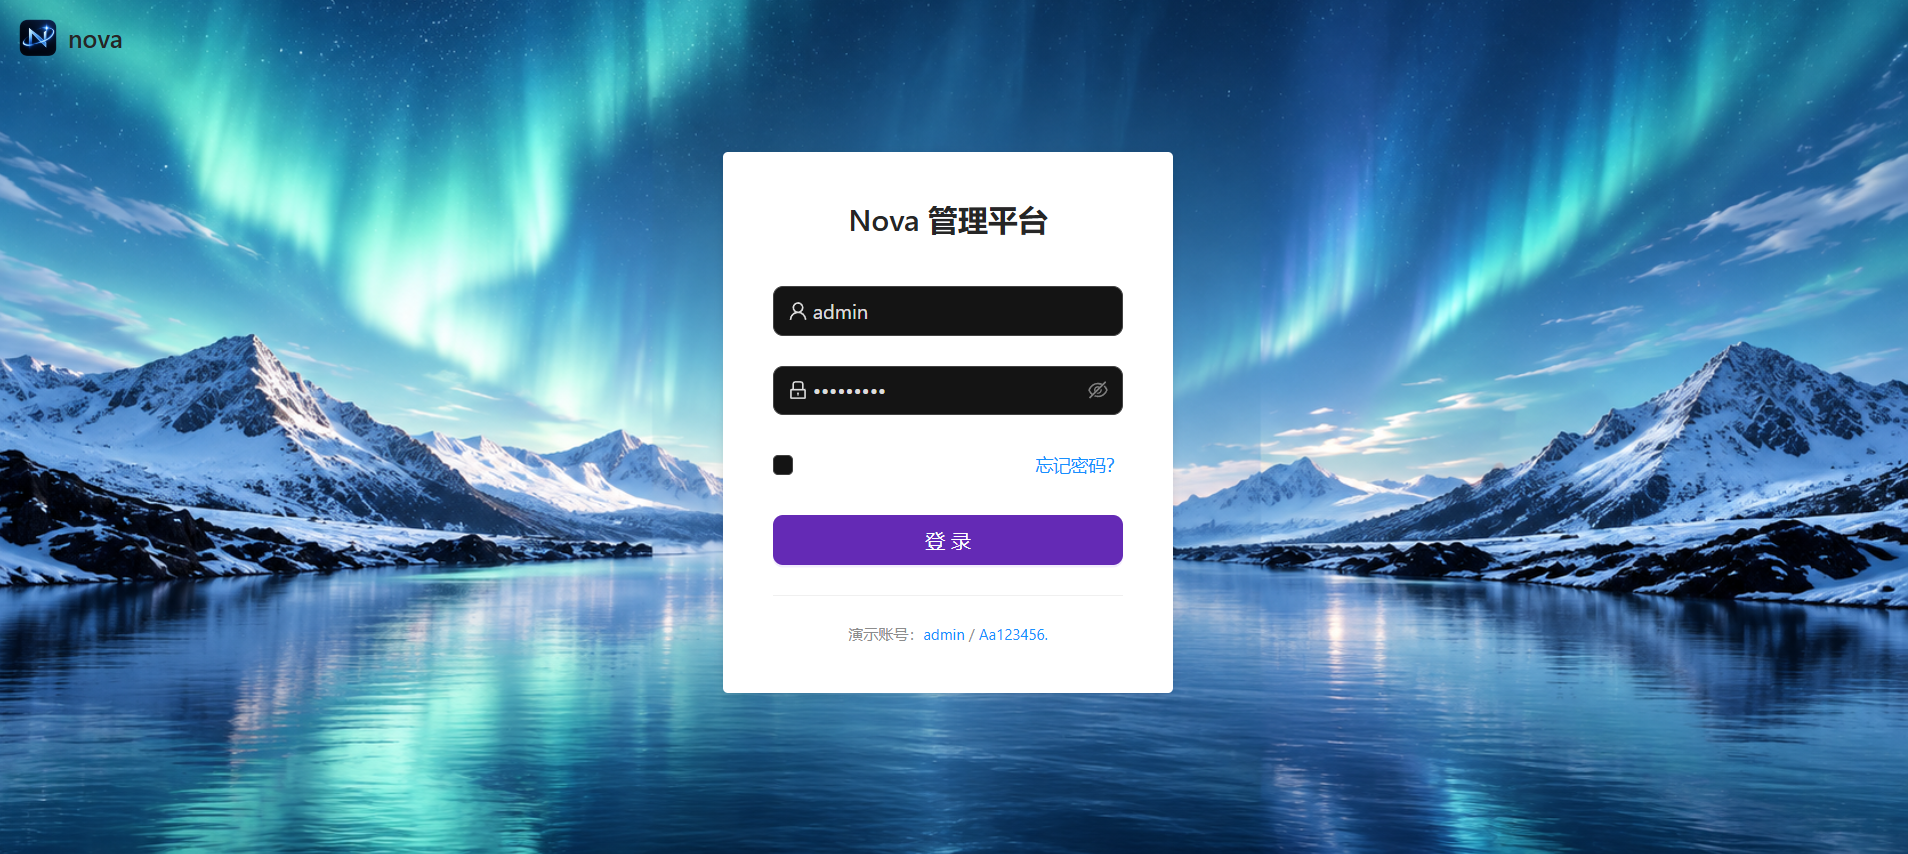
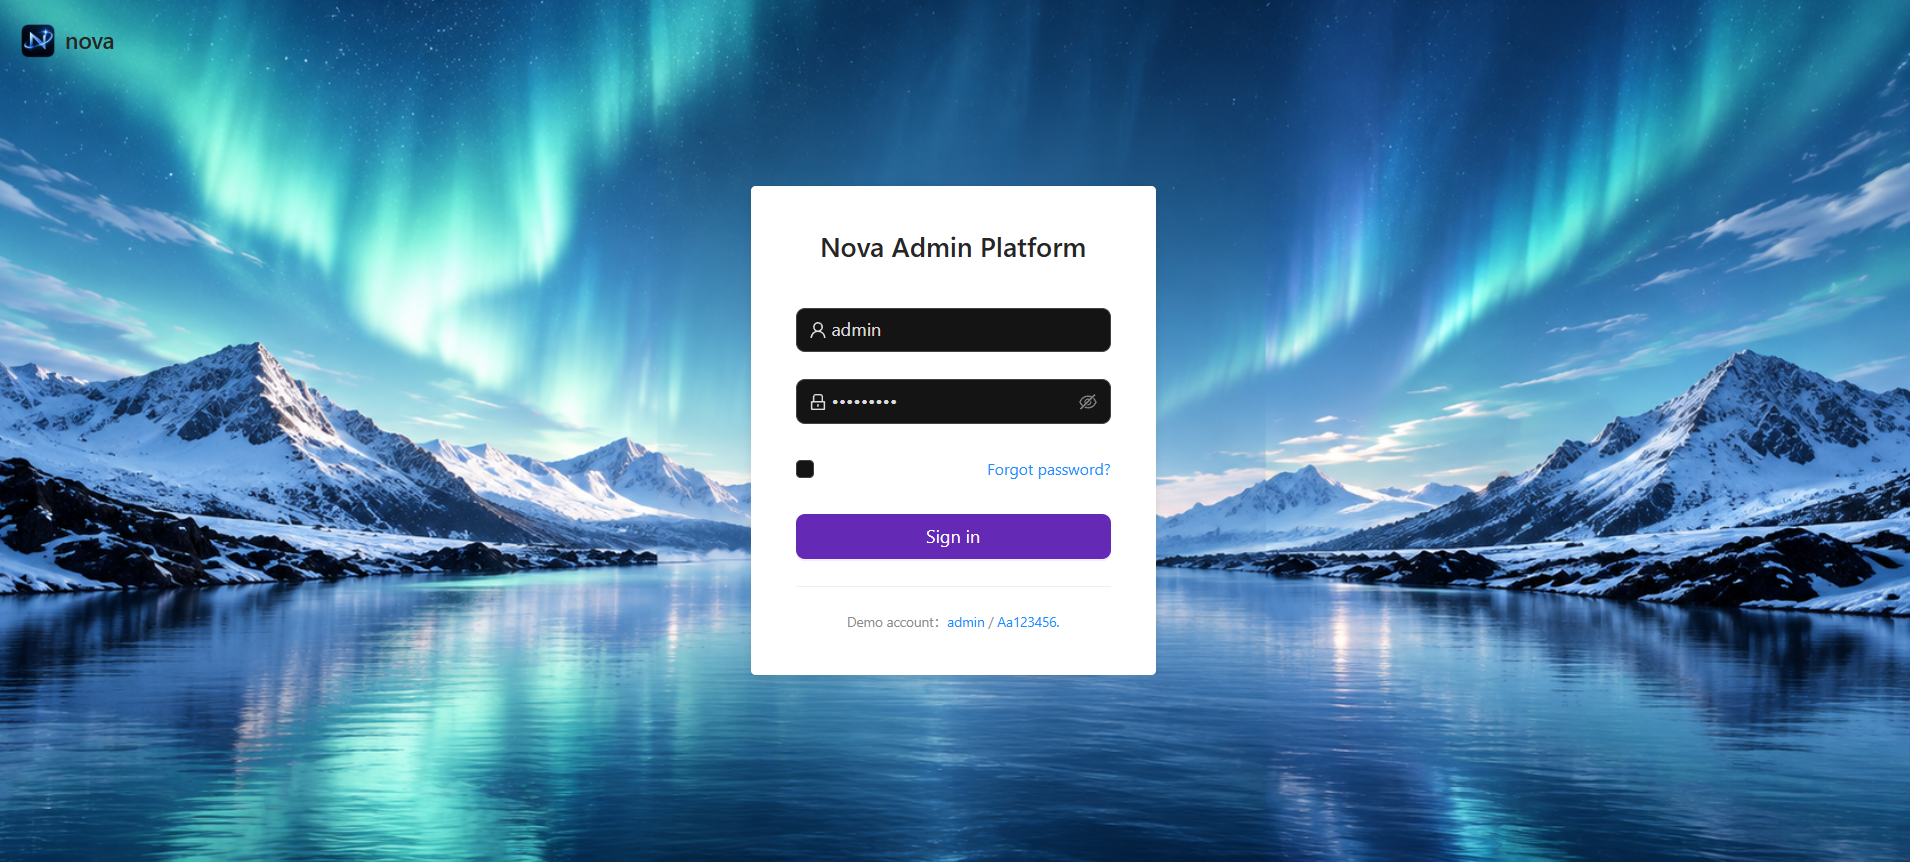
多语言

diff --git a/src/styles/index.scss b/src/styles/index.scss
@@ -223,6 +223,16 @@ body {
               background: rgba(0, 0, 0, 0.04) !important;
             }
           }
+
+          .sider-action,
+          .sider-user {
+            color: rgba(0, 0, 0, 0.65) !important;
+
+            &:hover {
+              color: rgba(0, 0, 0, 0.85) !important;
+              background: rgba(0, 0, 0, 0.04) !important;
+            }
+          }
         }
 
         // Ant Menu 亮色：背景/hover/选中样式
@@ -286,6 +296,16 @@ body {
         .sider-footer {
           background: #001529 !important;
           border-top: 1px solid rgba(255, 255, 255, 0.1) !important;
+
+          .sider-action,
+          .sider-user {
+            color: rgba(255, 255, 255, 0.75) !important;
+
+            &:hover {
+              color: #fff !important;
+              background: rgba(255, 255, 255, 0.08) !important;
+            }
+          }
         }
       }
     }

diff --git a/tests/system-page-style.test.ts b/tests/system-page-style.test.ts
@@ -290,3 +290,16 @@ test('dark style setting applies to the full application surface', () => {
     /body\.theme-dark\s+\.tabs-view\s*\{[^}]*background:\s*#1f1f1f/,
   )
 })
+
+test('side-footer global and settings controls remain visible in both themes', () => {
+  const styles = readFileSync(new URL('../src/styles/index.scss', import.meta.url), 'utf8')
+
+  assert.match(
+    styles,
+    /&\.theme-light\s*\{[\s\S]*\.sider-footer\s*\{[\s\S]*\.sider-action,\s*\.sider-user\s*\{[\s\S]*color:\s*rgba\(0, 0, 0, 0\.65\) !important/,
+  )
+  assert.match(
+    styles,
+    /&\.theme-dark\s*\{[\s\S]*\.sider-footer\s*\{[\s\S]*\.sider-action,\s*\.sider-user\s*\{[\s\S]*color:\s*rgba\(255, 255, 255, 0\.75\) !important/,
+  )
+})
